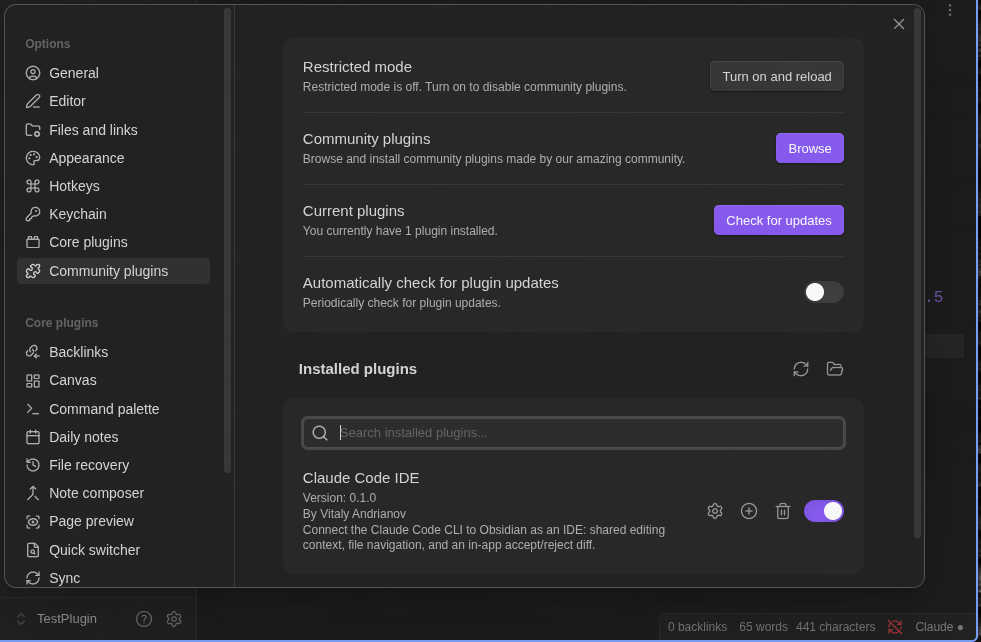
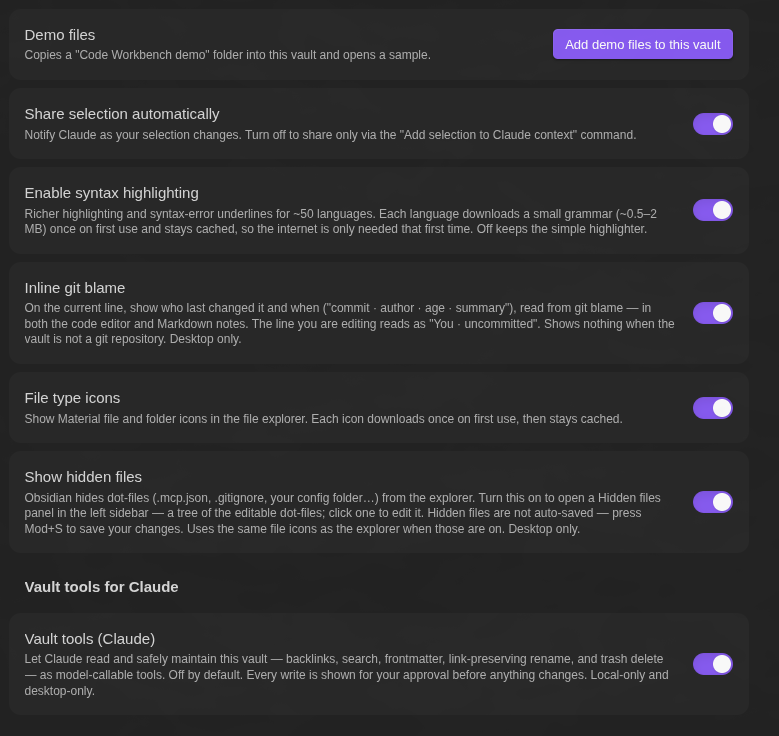
docs(readme): lead with vault maintenance, screenshots by feature, add FAQ
- rewrite the intro: maintain the vault with Claude (link-preserving edits,
  approval-gated) plus a real code editor; note the CLI runs on the Claude
  subscription, not a metered API key
- place each screenshot beside the feature it shows (Git review, file explorer),
  all full width; add a fresh Keep/Reject diff and an inline-blame shot
- add a FAQ (what it adds over the CLI, vs pointing an agent at the folder, git)
  and an "Everything is optional" section with the settings screenshot
- drop Development, Manual install, Requirements, Scope, Acknowledgements
  (covered by the store, the desktop badge, and THIRD-PARTY-LICENSES)
- make LICENSE / THIRD-PARTY-LICENSES / SUPPORT.md links absolute so they don't
  resolve into node_modules inside an Obsidian vault; remove em dashes; unwrap
  paragraphs to one line each

diff --git a/README.md b/README.md
@@ -1,79 +1,61 @@
 # Code Workbench for Obsidian
 
-[![Release](https://img.shields.io/github/v/release/vitaly-andr/obsidian-code-workbench?sort=semver)](https://github.com/vitaly-andr/obsidian-code-workbench/releases)
-[![License: PolyForm Shield 1.0.0](https://img.shields.io/badge/license-PolyForm%20Shield%201.0.0-blue)](LICENSE)
-![Platform: desktop](https://img.shields.io/badge/platform-desktop-lightgrey)
+[![Release](https://img.shields.io/github/v/release/vitaly-andr/obsidian-code-workbench?sort=semver)](https://github.com/vitaly-andr/obsidian-code-workbench/releases) [![License: PolyForm Shield 1.0.0](https://img.shields.io/badge/license-PolyForm%20Shield%201.0.0-blue)](https://github.com/vitaly-andr/obsidian-code-workbench/blob/main/LICENSE) ![Platform: desktop](https://img.shields.io/badge/platform-desktop-lightgrey)
 
-**Code Workbench turns Obsidian into a real code editor and a Claude Code IDE.** Obsidian is the
-most comfortable place to keep notes, specs, and plans, but it only opens Markdown, so your code
-had to live somewhere else. Now your code and your notes sit in one app, with Claude working on both.
+**I keep my whole life in Obsidian: notes, projects, research.** What I always wanted was help keeping it organized as it grows: filing new notes, fixing links, holding the system together. Code Workbench is what I built for that: a free plugin that gives Claude the tools to maintain the vault from inside Obsidian, plus a real code editor for everything else.
 
-On the code side, you get syntax highlighting and inline error diagnostics for 50+ languages
-(TypeScript, Python, Go, Rust, JSON, YAML, and more) powered by tree-sitter, one-command formatting
-with Prettier and native formatters, and a one-click launcher: it opens a terminal in your vault and
-starts the [Claude Code](https://docs.claude.com/en/docs/claude-code) CLI already connected to
-Obsidian, with no `/ide` step. When Claude edits your files, the changes open as a side-by-side
-Keep/Reject diff you control, so you review AI-written code right where you work, next to your notes.
+**One click to Claude.** The status bar opens a terminal in your vault with the [Claude Code](https://docs.claude.com/en/docs/claude-code) CLI already connected, with no `/ide` and no setup. It drives the CLI you already run, so it uses your Claude subscription instead of a metered API key: letting Claude work across a whole vault doesn't run up an API bill. It works with other Claude Code compatible models too, like Kimi K2 or DeepSeek.
 
-**New in 2.0 — Vault tools for Claude** work the other direction: Claude can read and maintain your
-knowledge base itself. Turn them on, and Claude answers questions straight from your notes using
-Obsidian's own link graph (backlinks, wikilink resolution, frontmatter, and metadata search) and
-makes link-preserving changes (create, append, rename, delete to trash), each shown for your
-approval before it applies. The companion MCP server runs locally, on the desktop, and sets itself
-up automatically.
+**Let Claude maintain the vault.** Turn on the vault tools and Claude reads and edits notes through Obsidian itself. It answers from your own link graph (backlinks, wikilinks, frontmatter) and makes link-preserving changes: create, append, rename, delete to trash. Hand it your organizing system (PARA, Zettelkasten, or your own) and it files new notes where they belong, links them in, and holds the structure as the vault grows. Every change is shown for your approval first, so an AI tends the garden without quietly breaking your links. You don't have to write code for any of this; the knowledge-base side is for anyone who keeps notes in Obsidian.
 
-Code Workbench speaks the Claude Code CLI protocol rather than one model's API, so it's
-model-agnostic: use it with Claude, Kimi K2, DeepSeek, GLM, or any Anthropic-compatible endpoint
-your CLI points at.
-
-> Other Claude plugins for Obsidian put an agent in a chat sidebar. They don't open, highlight, or
-> format your code files. Code Workbench is the editor, not another chat.
+**And a real code editor.** Obsidian only opens Markdown. Code Workbench opens and edits code and config files too (`.ts`, `.py`, `.rs`, `.json`, `.yaml`, even hidden dot-files) with syntax highlighting, inline diagnostics, and one-command formatting, saving back to disk. Select any text to send it to Claude as context. When Claude edits a file, the change lands as a side-by-side Keep/Reject diff you control, and a branch graph and inline blame show what it committed, without leaving Obsidian.
 
 <img src="docs/workbench.png" alt="A code file open in the Code Workbench editor" width="100%">
 
+<img src="docs/keep-reject-diff.png" alt="A Claude edit shown as a side-by-side Keep / Reject diff" width="100%">
+
+> Other Claude plugins for Obsidian give you a chat in a sidebar. This gives Claude tools to maintain the vault, and an editor to review what it does.
+
 ## What makes it different
 
-- **Edit non-Markdown files.** Obsidian only edits Markdown. Code Workbench opens `.rs`, `.py`,
-  `.ts`, `.go`, `.json`, `.yaml` and dozens more in an editable, highlighted view, and saves your
-  changes back to the file.
-- **Syntax highlighting** for about 50 languages via tree-sitter, colored to match your Obsidian
-  theme.
+- **Edit non-Markdown files.** Obsidian only edits Markdown. Code Workbench opens `.rs`, `.py`, `.ts`, `.go`, `.json`, `.yaml` and dozens more in an editable, highlighted view, and saves your changes back to the file.
+- **Syntax highlighting** for about 50 languages via tree-sitter, colored to match your Obsidian theme.
 - **Diagnostics:** syntax errors are underlined where they occur, for about 48 languages.
-- **One-command formatting** for about 28 languages, including JSON, XML, YAML, TOML, JavaScript,
-  TypeScript, Python, Go, Rust, Ruby, PHP, and C/C++.
-- **Accept or reject Claude's edits.** A proposed change opens as a side-by-side diff. Keep it or
-  reject it, and edit the proposed side first if you want. Nothing is written until you keep it.
-- **Works with any model.** It speaks the Claude Code CLI protocol, not a model API, so it runs with
-  Claude, Kimi K2, DeepSeek, GLM, or any Anthropic-compatible endpoint you use through the CLI.
-- **Launch Claude in one click.** Start the CLI in your vault from the status bar or settings; it
-  opens your terminal in the right folder.
-- **File-type icons.** Material file and folder icons in the explorer.
-- **Vault tools for Claude.** Turn it on to let Claude read and maintain the vault through
-  model-callable tools — backlinks, search, frontmatter, link-preserving rename, trash delete —
-  with every write shown for your approval. See [Vault tools for Claude](#vault-tools-for-claude).
-- **Edit hidden files.** A *Hidden files* sidebar panel lists the dot-files Obsidian normally hides
-  (`.mcp.json`, `.gitignore`, `.obsidian/…`) as a tree and opens them in the editor.
-- **Git branch in the status bar.** A status-bar indicator shows the current branch (or `no git`),
-  with the branch icon colored by working-tree state: green when clean, yellow with uncommitted
-  changes, orange on a detached HEAD.
-- **Git graph.** A sidebar panel draws the repository history as a branch graph — commits
-  newest-first, a lane per branch with merge and branch edges, ref labels. Click a commit to see the
-  branches that contain it and the files it changed; click a file for a read-only side-by-side diff.
+- **One-command formatting** for about 28 languages, including JSON, XML, YAML, TOML, JavaScript, TypeScript, Python, Go, Rust, Ruby, PHP, and C/C++.
+- **Accept or reject Claude's edits.** A proposed change opens as a side-by-side diff. Keep it or reject it, and edit the proposed side first if you want. Nothing is written until you keep it.
+- **Works with any model.** It speaks the Claude Code CLI protocol, not a model API, so it runs with Claude, Kimi K2, DeepSeek, GLM, or any Anthropic-compatible endpoint you use through the CLI.
+- **Launch Claude in one click.** Start the CLI in your vault from the status bar or settings; it opens your terminal in the right folder.
+- **Vault tools for Claude.** Turn it on to let Claude read and maintain the vault through model-callable tools (backlinks, search, frontmatter, link-preserving rename, trash delete), with every write shown for your approval. See [Vault tools for Claude](#vault-tools-for-claude).
 
-<img src="docs/diff.png" alt="A Claude edit shown as a Keep / Reject diff" width="100%">
+## Git review
+
+Review what the AI committed without leaving Obsidian. The branch shows in the status bar, the history graph in a sidebar panel, and per-line blame in the editor.
+
+**Branch in the status bar.** The current branch (or `no git`), with the icon colored by working-tree state: green when clean, yellow with uncommitted changes, orange on a detached HEAD.
+
+<img src="docs/git-branch.png" alt="The current git branch in the status bar, colored by working-tree status" width="100%">
+
+**Branch graph.** A sidebar panel draws history as a branch graph: newest first, a lane per branch, merge and branch edges, ref labels. Click a commit to see the branches that contain it and the files it changed; click a file for a read-only side-by-side diff.
+
+<img src="docs/git-graph-panel.png" alt="Repository history drawn as a branch graph in a sidebar panel" width="100%">
+
+**Inline blame.** The current line shows its last commit, author, and age, read from `git blame`, in both code files and Markdown notes. On by default; toggle it in settings.
+
+<img src="docs/git-blame.png" alt="Inline git blame on the current line of a Markdown note" width="100%">
+
+## In the file explorer
+
+**File-type icons.** Material file and folder icons, fetched on demand and cached.
 
 <img src="docs/file-icons.png" alt="Material file-type icons in the file explorer" width="100%">
 
-<img src="docs/hidden-files.png" alt="The Hidden files panel listing a vault's dot-files as a tree" width="330">
+**Edit hidden files.** A *Hidden files* panel lists the dot-files Obsidian normally hides (`.mcp.json`, `.gitignore`, `.obsidian/…`) as a tree and opens them in the editor.
 
-<img src="docs/git-branch.png" alt="The current git branch shown in the status bar, color-coded by working-tree status" width="420">
-
-<img src="docs/git-graph-panel.png" alt="The repository history drawn as a branch graph in a sidebar panel" width="330">
+<img src="docs/hidden-files.png" alt="The Hidden files panel listing a vault's dot-files as a tree" width="100%">
 
 ## Language support
 
-Highlighting for 52 languages, diagnostics for 48, formatting for 28. Each grammar and formatter
-downloads the first time you open that language, then stays cached.
+Highlighting for 52 languages, diagnostics for 48, formatting for 28. Each grammar and formatter downloads the first time you open that language, then stays cached.
 
 | Language | Highlighting | Diagnostics | Formatting |
 |---|:---:|:---:|:---:|
@@ -130,33 +112,22 @@ downloads the first time you open that language, then stays cached.
 | YAML | ✅ | ✅ | ✅ |
 | Zig | ✅ | ✅ | ✅ |
 
-A simple highlighter is always on. Turn on **Settings → Code Workbench → Enable syntax highlighting**
-for the richer tree-sitter highlighting and the diagnostics above.
+A simple highlighter is always on. Turn on **Settings → Code Workbench → Enable syntax highlighting** for the richer tree-sitter highlighting and the diagnostics above.
 
 ## Using it
 
 1. Open a code file in your vault. It opens in an editable, highlighted editor.
-2. Turn on **Enable syntax highlighting** in the plugin settings for tree-sitter colors and error
-   underlines.
-3. To format, open the Command Palette (`Ctrl/Cmd+P`), type **Format code file**, and run it. You
-   can assign a hotkey under **Settings → Hotkeys**.
-4. Launch Claude: click **▶ Launch Claude** in the status bar (or **Run Claude in this vault** in
-   the plugin settings). It opens a terminal in the vault and starts `claude`, already connected to
-   Obsidian — the status bar shows `Claude ●`. Run `/ide` and pick **Obsidian** only if you start
-   `claude` yourself in a separate terminal, or to reconnect after updating or reloading the plugin
-   (the server restarts on a new port).
-5. Share a selection: select text and run **Add selection to Claude context** from the Command
-   Palette to send it as an `@`-mention. With **Share selection automatically** on, the current
-   selection is sent as it changes.
+2. Turn on **Enable syntax highlighting** in the plugin settings for tree-sitter colors and error underlines.
+3. To format, open the Command Palette (`Ctrl/Cmd+P`), type **Format code file**, and run it. You can assign a hotkey under **Settings → Hotkeys**.
+4. Launch Claude: click **▶ Launch Claude** in the status bar (or **Run Claude in this vault** in the plugin settings). It opens a terminal in the vault and starts `claude`, already connected to Obsidian; the status bar shows `Claude ●`. Run `/ide` and pick **Obsidian** only if you start `claude` yourself in a separate terminal, or to reconnect after updating or reloading the plugin (the server restarts on a new port).
+5. Share a selection: select text and run **Add selection to Claude context** from the Command Palette to send it as an `@`-mention. With **Share selection automatically** on, the current selection is sent as it changes.
 6. Claude's edits open as a **Keep/Reject** diff you accept or reject.
 
 <img src="docs/connect.png" alt="Claude Code's /ide picker with Obsidian connected" width="100%">
 
 ## Try it
 
-Once the plugin is installed, open **Settings → Code Workbench** and click **Add demo files to this
-vault**. It drops a `Code Workbench demo` folder of samples into your vault and opens one. Open a
-language folder:
+Once the plugin is installed, open **Settings → Code Workbench** and click **Add demo files to this vault**. It drops a `Code Workbench demo` folder of samples into your vault and opens one. Open a language folder:
 
 - `sample-*` shows highlighting on a realistic snippet.
 - `messy-*` shows error diagnostics (a red underline at the spot marked in a comment).
@@ -164,98 +135,68 @@ language folder:
 
 ## Install
 
-### Community plugins (recommended)
-
 1. Open **Settings → Community plugins → Browse** and search for **Code Workbench**.
 2. Install it, then enable it. Desktop only.
+3. Click **▶ Launch Claude** in the status bar. It opens a terminal in the vault and starts the Claude Code CLI, already connected, with no `/ide` step.
 
-### Manual
-
-1. Download `manifest.json`, `main.js`, and `styles.css` from the latest
-   [release](https://github.com/vitaly-andr/obsidian-code-workbench/releases).
-2. Copy them into `<vault>/.obsidian/plugins/code-workbench/` (`.obsidian` is hidden).
-3. Enable **Code Workbench** in Settings → Community plugins. Desktop only.
-
-Then open a terminal in the vault folder and run `claude`.
-
-## Development
-
-```sh
-git clone https://github.com/vitaly-andr/obsidian-code-workbench
-cd obsidian-code-workbench
-npm install
-npm run dev      # watch build
-npm run build    # production build
-```
-
-Copy `manifest.json`, `main.js`, and `styles.css` into
-`<vault>/.obsidian/plugins/code-workbench/`, or symlink the folder.
-
-## Requirements
-
-- The [Claude Code CLI](https://docs.claude.com/en/docs/claude-code), or a compatible CLI/endpoint.
-- Obsidian 1.5+, desktop only. It needs Node for the loopback server and filesystem access.
+Step 3 needs the [Claude Code CLI](https://docs.claude.com/en/docs/claude-code) installed. Without it, the terminal still opens but shows a "command not found" error and stays open so you can read it. Install the CLI, then click Launch again.
 
 ## Sharing context with Claude
 
 - **Automatic** (default): the plugin sends your current selection to Claude as it changes.
-- **On demand:** Command Palette (`Ctrl/Cmd+P`) → **Add selection to Claude context** attaches the
-  current selection as an `@`-mention (file path and line range).
+- **On demand:** Command Palette (`Ctrl/Cmd+P`) → **Add selection to Claude context** attaches the current selection as an `@`-mention (file path and line range).
 
-Claude also reads the current selection, the open notes, and the workspace root through the
-connection.
+Claude also reads the current selection, the open notes, and the workspace root through the connection.
 
 ## Vault tools for Claude
 
-Turn on **Vault tools (Claude)** in settings to let Claude read and maintain this vault through
-model-callable tools, alongside the editor integration. Off by default, desktop only. The plugin
-runs a second local server (loopback HTTP, separate from the editor's WebSocket) and writes a project
-`.mcp.json` in the vault folder, so a `claude` session started there picks the tools up after a
-one-time approval. The settings panel also shows a manual `claude mcp add` command as a fallback.
+Turn on **Vault tools (Claude)** in settings to let Claude read and maintain this vault through model-callable tools, alongside the editor integration. Off by default, desktop only. The plugin runs a second local server (loopback HTTP, separate from the editor's WebSocket) and writes a project `.mcp.json` in the vault folder, so a `claude` session started there picks the tools up after a one-time approval. The settings panel also shows a manual `claude mcp add` command as a fallback.
 
-Read tools use Obsidian's own link resolver and live cache, so they are accurate where `grep` is not:
-`getBacklinks`, `getOutgoingLinks`, `resolveWikilink`, `getFrontmatter`, `searchVault`,
-`listFilesInFolder`, `getDailyNote`, `getActiveNoteContent`. `searchVault` ranks notes by title,
-heading, tag, and frontmatter; full text inside note bodies stays with `ripgrep`, which `claude`
-already runs well.
+Read tools use Obsidian's own link resolver and live cache, so they are accurate where `grep` is not: `getBacklinks`, `getOutgoingLinks`, `resolveWikilink`, `getFrontmatter`, `searchVault`, `listFilesInFolder`, `getDailyNote`, `getActiveNoteContent`. `searchVault` ranks notes by title, heading, tag, and frontmatter; full text inside note bodies stays with `ripgrep`, which `claude` already runs well.
 
-Write tools go through the Obsidian vault API and are **shown for your approval before they apply**:
-`createNote`, `appendToNote`, `updateFrontmatter`, `renameNote` (updates every inbound `[[link]]`),
-and `deleteNote` (to trash, recoverable). There is no full-body overwrite tool — rewriting a note's
-contents stays on the editor's Keep/Reject diff.
+Write tools go through the Obsidian vault API and are **shown for your approval before they apply**: `createNote`, `appendToNote`, `updateFrontmatter`, `renameNote` (updates every inbound `[[link]]`), and `deleteNote` (to trash, recoverable). There is no full-body overwrite tool; rewriting a note's contents stays on the editor's Keep/Reject diff.
 
-Safety: the server binds to loopback only, requires a per-session bearer token (rejected even on
-loopback when missing or wrong), and checks the request origin. Writes are confined to the vault, run
-only through Obsidian, and never apply without your approval.
+Safety: the server binds to loopback only, requires a per-session bearer token (rejected even on loopback when missing or wrong), and checks the request origin. Writes are confined to the vault, run only through Obsidian, and never apply without your approval.
 
 ## How it works
 
-The plugin runs a loopback WebSocket server and writes a discovery lock file to
-`~/.claude/ide/<port>.lock` (honoring `CLAUDE_CONFIG_DIR`). The CLI reads that file, connects with a
-per-session token, and speaks JSON-RPC 2.0 / MCP. On an accepted diff the plugin returns the approved
-content and the CLI performs the write, so there is a single writer and no race.
+The plugin runs a loopback WebSocket server and writes a discovery lock file to `~/.claude/ide/<port>.lock` (honoring `CLAUDE_CONFIG_DIR`). The CLI reads that file, connects with a per-session token, and speaks JSON-RPC 2.0 / MCP. On an accepted diff the plugin returns the approved content and the CLI performs the write, so there is a single writer and no race.
 
-The optional vault-tools integration is a second, separate MCP server over loopback HTTP with its own
-per-session token. It runs only while **Vault tools (Claude)** is on, and its token store stays in the
-plugin's data folder, not in the editor's discovery directory.
+The optional vault-tools integration is a second, separate MCP server over loopback HTTP with its own per-session token. It runs only while **Vault tools (Claude)** is on, and its token store stays in the plugin's data folder, not in the editor's discovery directory.
+
+## Everything is optional
+
+The plugin forces nothing on you. Every feature is a toggle in **Settings → Code Workbench**: syntax highlighting, inline git blame, file icons, the hidden-files panel, automatic selection sharing, and the vault tools. Turn off anything you don't use. The vault tools, which give Claude read and write access to the vault, stay off until you switch them on.
+
+<img src="docs/settings.png" alt="The Code Workbench settings page, where every feature is a toggle" width="100%">
 
 ## Privacy
 
-No telemetry. Your code stays on your machine. The only network use is downloading language grammars
-and formatters once, on demand, from this project's GitHub releases. Turn off **Enable syntax
-highlighting** to avoid even that. The vault-tools server, when enabled, is loopback-only and
-token-authenticated; nothing it exposes leaves your machine.
+No telemetry. Your code stays on your machine. The only network use is downloading language grammars and formatters once, on demand, from this project's GitHub releases. Turn off **Enable syntax highlighting** to avoid even that. The vault-tools server, when enabled, is loopback-only and token-authenticated; nothing it exposes leaves your machine.
 
-## Scope
+## FAQ
 
-Highlighting, diagnostics, formatting, and the accept/reject diff. There is no language server,
-autocomplete, or go-to-definition; code understanding stays with Claude. It depends on no other
-Obsidian plugin.
+### Claude Code already reads my vault. What does this add?
+
+It does read it well: wikilinks, link updates, YAML, all of it. The plugin doesn't add comprehension. It adds three things the CLI alone doesn't:
+
+- **A visual layer.** Every edit lands as a Keep/Reject diff before it touches the file, so you review instead of trusting it blind. Fix a line yourself in the highlighted editor without opening a separate IDE. Edit your `CLAUDE.md` or a skill file in the vault, including the ones under `.claude/` that Obsidian hides. Syntax highlighting and one-command formatting turn a raw JSON or XML blob into something you can read. Your eyes on the real file catch what grep misses.
+- **Git review.** A branch indicator in the status bar, a branch-graph panel with click-to-diff, and inline `git blame` on the current line, so you see what changed, including what the AI just committed, without leaving Obsidian.
+- **Graph queries at scale.** The vault tools let Claude query Obsidian's resolved link graph and metadata (backlinks, wikilink resolution, frontmatter) instead of grepping thousands of files. Grep over a big vault is slow and misses links the index already resolved.
+
+Less "Claude can't read Obsidian", more "you see and steer what it does, and it queries the graph instead of guessing".
+
+### Is this better than pointing an agent at my Obsidian folder?
+
+A general agent pointed at the folder sees your notes as plain `.md` files. It doesn't use wikilinks, backlinks, or the graph, so it can break links when it moves or renames things. The plugin runs inside Obsidian and goes through Obsidian's link resolver, so a rename keeps every inbound `[[link]]` intact, and each change shows as a diff you keep or reject in context. It doesn't necessarily do more; it does it without wrecking your links and lets you approve each step.
+
+### Does it manage git (commit, push, sync)?
+
+No, and it doesn't need to. Ask Claude to stage, commit, or push through the CLI, or run git in the terminal yourself. The plugin only visualizes it: the branch, graph, and blame above.
 
 ## Support
 
-Code Workbench is free. If it's useful to you, you can support it at a fraction of your Claude
-subscription. See [SUPPORT.md](SUPPORT.md) for ways to donate.
+Code Workbench is free. If it's useful to you, you can support it at a fraction of your Claude subscription. See [SUPPORT.md](https://github.com/vitaly-andr/obsidian-code-workbench/blob/main/SUPPORT.md) for ways to donate.
 
 ## Sponsorship
 
@@ -266,15 +207,6 @@ No sponsors yet. To sponsor development or place your logo here, get in touch:
 
 <a href="https://t.me/VITALY_ANDR"><img src="docs/telegram-qr.png" width="180" alt="Telegram @VITALY_ANDR"></a>
 
-## Acknowledgements
-
-The file-type icons are derived from
-[material-icon-theme](https://github.com/material-extensions/vscode-material-icon-theme) by Material
-Extensions (MIT). The icon-name mapping is distilled into the plugin; the SVGs are fetched on demand
-from jsDelivr and cached, not bundled.
-
 ## License
 
-Source-available under the [PolyForm Shield License 1.0.0](LICENSE): free to use, study, and modify,
-but not to build a competing product. It is not an OSI "open source" license. Bundled third-party
-components keep their own licenses; see [THIRD-PARTY-LICENSES](THIRD-PARTY-LICENSES).
+Source-available under the [PolyForm Shield License 1.0.0](https://github.com/vitaly-andr/obsidian-code-workbench/blob/main/LICENSE): free to use, study, and modify, but not to build a competing product. It is not an OSI "open source" license. Bundled third-party components keep their own licenses; see [THIRD-PARTY-LICENSES](https://github.com/vitaly-andr/obsidian-code-workbench/blob/main/THIRD-PARTY-LICENSES).